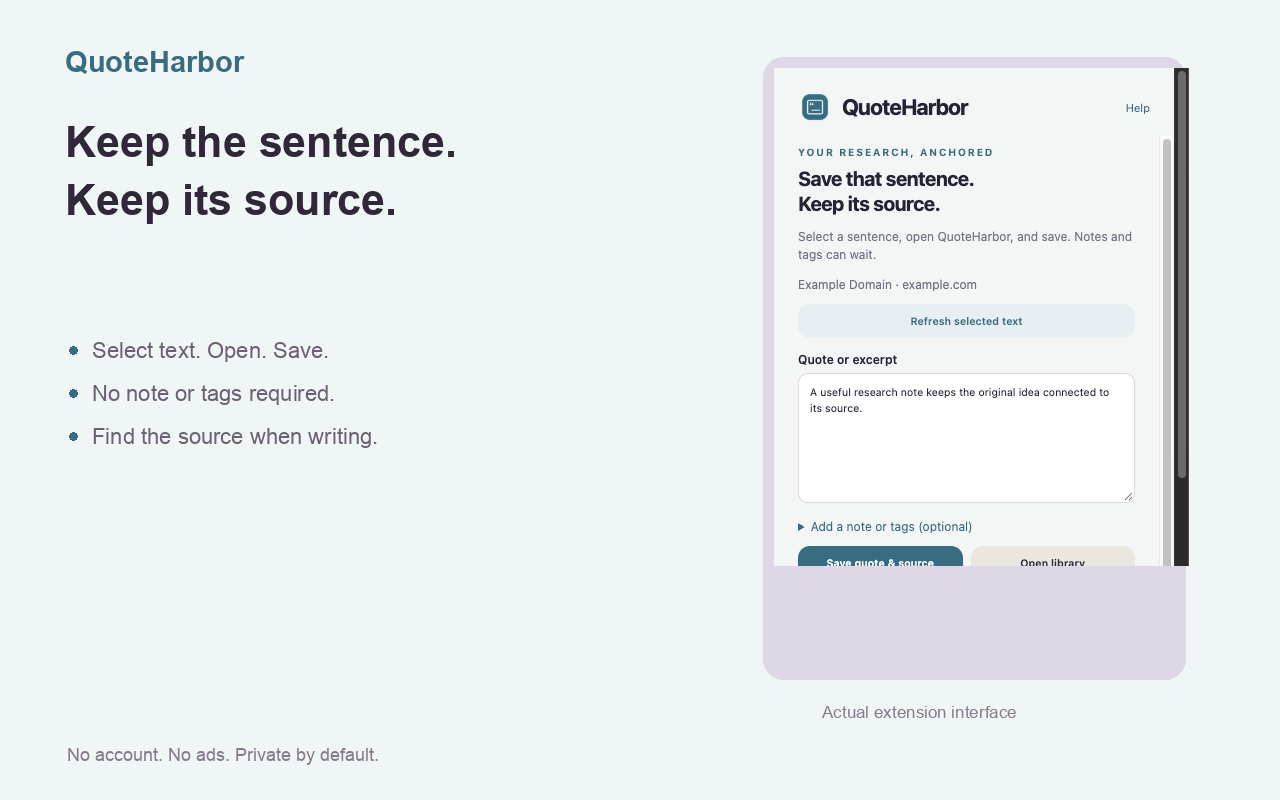
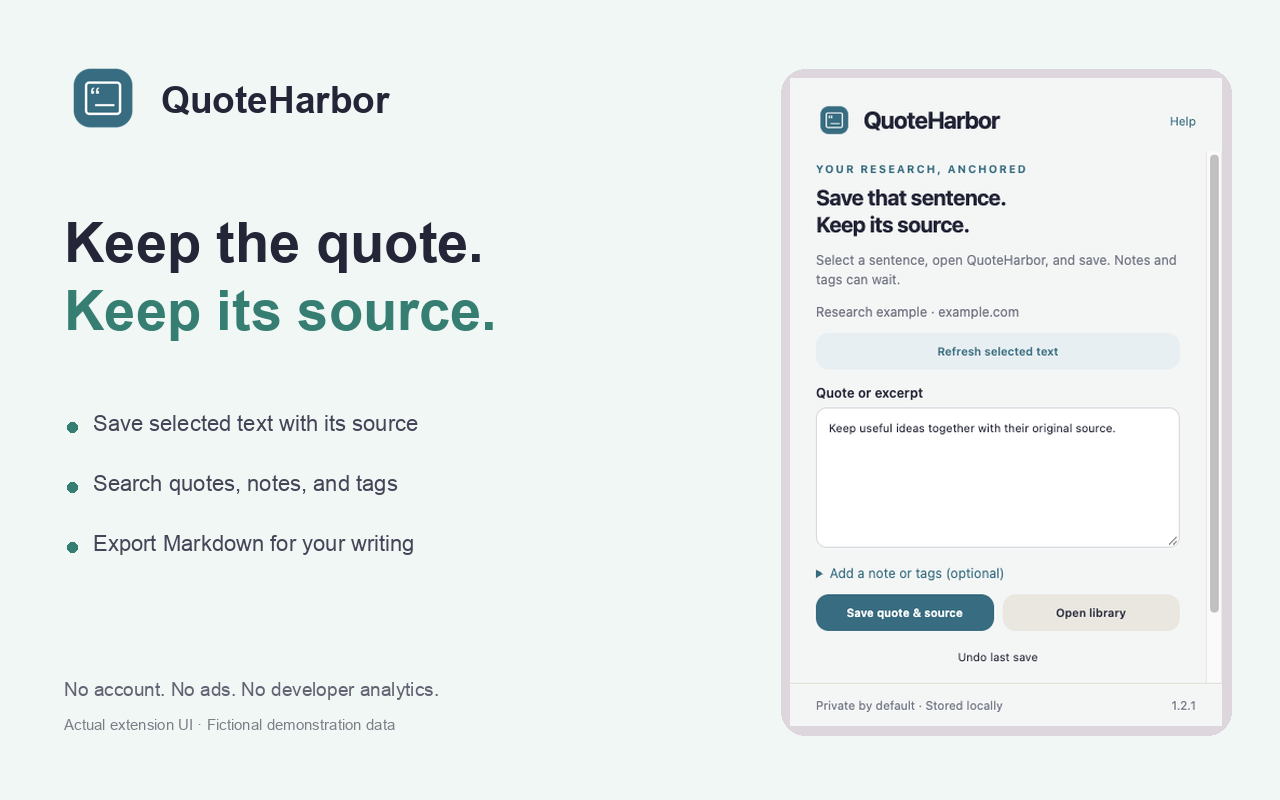
Improve store discovery and add optional honest feedback

diff --git a/extension/popup.js b/extension/popup.js
@@ -1,9 +1,11 @@
+import {initReview} from './review.js';
+const recordReviewUse=initReview('https://chromewebstore.google.com/detail/kaflppcnmmcejmdhcnicjhoaogagjgbd/reviews');
 import {$,status} from './shared.js';import {pageKey,normalizeTags} from './model.js';let page,tabId,lastSavedId=null;
 async function init(){try{const [tab]=await chrome.tabs.query({active:true,currentWindow:true});page={url:pageKey(tab?.url),title:String(tab.title||tab.url).slice(0,300)};tabId=tab.id;$('#page').textContent=page.title+' · '+new URL(page.url).hostname;await captureSelection(false);await updateCount();}catch{page=null;$('#page').textContent='Open a web page to capture a source. Your saved clips are in the library.';$('#capture').disabled=true;$('#save').disabled=true;}}
 async function captureSelection(explicit=true){if(!page)return;try{const result=await chrome.scripting.executeScript({target:{tabId},func:()=>window.getSelection()?.toString()||''});const text=result[0]?.result?.trim()||'';if(!text){if(explicit)status('Select a sentence on the page first, or paste one below.');return;}if(text.length>20000){status('Choose a passage shorter than 20,000 characters.');return;}$('#quote').value=text;$('#capture').textContent='Refresh selected text';status('Selection ready. Save it now; add notes later if you want.');}catch{if(explicit)status('This page blocks capture. Paste the sentence manually.');}}
 $('#capture').onclick=()=>captureSelection(true);
 async function updateCount(){const {clips=[]}=await chrome.storage.local.get('clips');$('#recent-count').textContent=clips.length?`${clips.length} saved ${clips.length===1?'clip':'clips'} in your library.`:'Your first useful sentence starts here.';}
-$('#save').onclick=async()=>{if(!page)return;const quote=$('#quote').value.trim(),note=$('#note').value.trim();if(!quote&&!note){status('Add a quote or a note before saving.');return;}$('#save').disabled=true;try{const {clips=[]}=await chrome.storage.local.get('clips');if(clips.length>=1000){status('Library is full. Export and remove older clips.');return;}lastSavedId=crypto.randomUUID();await chrome.storage.local.set({clips:[{id:lastSavedId,...page,quote,note,tags:normalizeTags($('#tags').value),createdAt:Date.now()},...clips]});$('#quote').value='';$('#note').value='';$('#undo').hidden=false;await updateCount();status('Saved with its source. No note or tags required.');}catch{status('Could not save. Storage may be full.');}finally{$('#save').disabled=false;}};
+$('#save').onclick=async()=>{if(!page)return;const quote=$('#quote').value.trim(),note=$('#note').value.trim();if(!quote&&!note){status('Add a quote or a note before saving.');return;}$('#save').disabled=true;try{const {clips=[]}=await chrome.storage.local.get('clips');if(clips.length>=1000){status('Library is full. Export and remove older clips.');return;}lastSavedId=crypto.randomUUID();await chrome.storage.local.set({clips:[{id:lastSavedId,...page,quote,note,tags:normalizeTags($('#tags').value),createdAt:Date.now()},...clips]});$('#quote').value='';$('#note').value='';$('#undo').hidden=false;await updateCount();status('Saved with its source. No note or tags required.');void recordReviewUse();}catch{status('Could not save. Storage may be full.');}finally{$('#save').disabled=false;}};
 $('#library').onclick=()=>chrome.tabs.create({url:chrome.runtime.getURL('library.html')});init();
 
 $('#undo').onclick=async()=>{if(!lastSavedId)return;try{const {clips=[]}=await chrome.storage.local.get('clips');await chrome.storage.local.set({clips:clips.filter(c=>c.id!==lastSavedId)});lastSavedId=null;$('#undo').hidden=true;await updateCount();status('Last save undone.');}catch{status('Could not undo. You can delete the clip from the library.');}};

diff --git a/extension/popup.html b/extension/popup.html
@@ -1,1 +1,1 @@
-<!doctype html><html lang="en"><head><meta charset="utf-8"><meta name="viewport" content="width=device-width,initial-scale=1"><title>QuoteHarbor</title><link rel="stylesheet" href="style.css"></head><body><header><div><img src="icons/icon48.png" alt=""><h1>QuoteHarbor</h1></div><a class="brand-link" href="privacy.html" target="_blank">Help</a></header><main><div class="eyebrow">YOUR RESEARCH, ANCHORED</div><h2>Save that sentence.<br>Keep its source.</h2><p class="muted">Select a sentence, open QuoteHarbor, and save. Notes and tags can wait.</p><div id="page" class="page-info">Reading the current page…</div><button id="capture" class="primary full" style="margin-top:10px">Capture selected text</button><label for="quote">Quote or excerpt</label><textarea id="quote" maxlength="20000" placeholder="Capture a selection or paste a quote…" style="min-height:90px"></textarea><details id="clip-details"><summary>Add a note or tags (optional)</summary><label for="note">Why it matters</label><textarea id="note" maxlength="20000" placeholder="Your interpretation, questions, or next step…" style="min-height:80px"></textarea><label for="tags">Tags (comma separated)</label><input id="tags" maxlength="160" placeholder="research, design, to-read"></details><div class="row" style="margin-top:12px"><button id="save" class="primary">Save quote & source</button><button id="library">Open library</button></div><button id="undo" class="quiet full" hidden>Undo last save</button><p id="recent-count" class="muted"></p><p id="status" class="status" role="status" aria-live="polite"></p></main><footer><span>Private by default · Stored locally</span><span>1.2.0</span></footer><script type="module" src="popup.js"></script></body></html>
+<!doctype html><html lang="en"><head><meta charset="utf-8"><meta name="viewport" content="width=device-width,initial-scale=1"><title>QuoteHarbor</title><link rel="stylesheet" href="style.css"></head><body><header><div><img src="icons/icon48.png" alt=""><h1>QuoteHarbor</h1></div><a class="brand-link" href="privacy.html" target="_blank">Help</a></header><main><div class="eyebrow">YOUR RESEARCH, ANCHORED</div><h2>Save that sentence.<br>Keep its source.</h2><p class="muted">Select a sentence, open QuoteHarbor, and save. Notes and tags can wait.</p><div id="page" class="page-info">Reading the current page…</div><button id="capture" class="primary full" style="margin-top:10px">Capture selected text</button><label for="quote">Quote or excerpt</label><textarea id="quote" maxlength="20000" placeholder="Capture a selection or paste a quote…" style="min-height:90px"></textarea><details id="clip-details"><summary>Add a note or tags (optional)</summary><label for="note">Why it matters</label><textarea id="note" maxlength="20000" placeholder="Your interpretation, questions, or next step…" style="min-height:80px"></textarea><label for="tags">Tags (comma separated)</label><input id="tags" maxlength="160" placeholder="research, design, to-read"></details><div class="row" style="margin-top:12px"><button id="save" class="primary">Save quote & source</button><button id="library">Open library</button></div><button id="undo" class="quiet full" hidden>Undo last save</button><p id="recent-count" class="muted"></p><p id="status" class="status" role="status" aria-live="polite"></p></main><footer><span>Private by default · Stored locally</span><span>1.2.1</span></footer><script type="module" src="popup.js"></script></body></html>

diff --git a/extension/privacy.html b/extension/privacy.html
@@ -1,1 +1,1 @@
-<!doctype html><html lang="en"><meta charset="utf-8"><meta name="viewport" content="width=device-width,initial-scale=1"><title>Privacy and help</title><link rel="stylesheet" href="style.css"><body class="library"><header><h1>Privacy and help</h1></header><main><h2>Stored on your device</h2><p>This extension does not send your data to a developer server. It contains no analytics, advertising, accounts, or remote executable code.</p><p>Saved content uses Chrome local storage. Clearing extension data or uninstalling removes it. Chrome and its Web Store operate under Google's separate policies.</p><h2>How this product accesses data</h2><p>Local data includes quotes, optional notes and tags, source titles and URLs, and timestamps. Opening the popup reads the current selection in the top page frame for a preview. The selection is saved only after you click Save.</p><h2>Control your data</h2><p>Use the export and delete controls where provided. Exported files may contain private URLs or notes, so store them somewhere you trust.</p><h2>Support</h2><p>Use the support contact on this extension's Chrome Web Store listing to report a bug. Include the extension version and steps to reproduce. Do not include passwords, private URLs, or sensitive notes.</p><h2>Remove the extension</h2><p>Open chrome://extensions, find this extension, and choose Remove.</p><a href="popup.html">Back to the app</a></main></body></html>
+<!doctype html><html lang="en"><meta charset="utf-8"><meta name="viewport" content="width=device-width,initial-scale=1"><title>Privacy and help</title><link rel="stylesheet" href="style.css"><body class="library"><header><h1>Privacy and help</h1></header><main><h2>Stored on your device</h2><p>This extension does not send your data to a developer server. It contains no analytics, advertising, accounts, or remote executable code.</p><p>Saved content uses Chrome local storage. Clearing extension data or uninstalling removes it. Chrome and its Web Store operate under Google's separate policies.</p><h2>How this product accesses data</h2><p>Local data includes quotes, optional notes and tags, source titles and URLs, and timestamps. Opening the popup reads the current selection in the top page frame for a preview. The selection is saved only after you click Save.</p><h2>Control your data</h2><p>Use the export and delete controls where provided. Exported files may contain private URLs or notes, so store them somewhere you trust.</p><h2>Support</h2><p>Use the support contact on this extension's Chrome Web Store listing to report a bug. Include the extension version and steps to reproduce. Do not include passwords, private URLs, or sensitive notes.</p><h2>Remove the extension</h2><p>Open chrome://extensions, find this extension, and choose Remove.</p><a href="popup.html">Back to the app</a><h2>Share feedback</h2><p>Share an honest review of your experience. Reviews are optional and do not unlock features.</p><p><a href="https://chromewebstore.google.com/detail/kaflppcnmmcejmdhcnicjhoaogagjgbd/reviews" target="_blank" rel="noopener noreferrer">Write a Chrome Web Store review</a></p><p>Local feedback preferences record successful-use counts, activity dates, and whether the one-time review notice was dismissed or opened. No feedback data is sent to the developer.</p></main></body></html>

diff --git a/extension/library.html b/extension/library.html
@@ -1,1 +1,1 @@
-<!doctype html><html lang="en"><head><meta charset="utf-8"><meta name="viewport" content="width=device-width,initial-scale=1"><title>QuoteHarbor — Research library</title><link rel="stylesheet" href="style.css"></head><body class="library"><header><div><img src="icons/icon48.png" alt=""><h1>QuoteHarbor</h1></div><a href="privacy.html">Privacy & help</a></header><main><div class="eyebrow">YOUR PRIVATE RESEARCH LIBRARY</div><h2>Good ideas deserve a safe harbor.</h2><p class="muted">Search quotes, notes, sources, and tags. Export Markdown for your writing or JSON for a backup.</p><div class="row"><div><label for="search">Search clips</label><input id="search" type="search" placeholder="Find a quote, note, or source"></div><div><label for="tag-filter">Tag</label><select id="tag-filter"><option value="">All tags</option></select></div></div><div class="actions"><button id="markdown" class="primary">Export Markdown</button><button id="export">Export backup</button><button id="import">Import backup</button></div><input id="file" type="file" accept=".json" hidden><p id="status" class="status" role="status" aria-live="polite"></p><div id="notes" class="cards"></div></main><footer><span>Stored on this device · No account</span><span>1.2.0</span></footer><script type="module" src="library.js"></script></body></html>
+<!doctype html><html lang="en"><head><meta charset="utf-8"><meta name="viewport" content="width=device-width,initial-scale=1"><title>QuoteHarbor — Research library</title><link rel="stylesheet" href="style.css"></head><body class="library"><header><div><img src="icons/icon48.png" alt=""><h1>QuoteHarbor</h1></div><a href="privacy.html">Privacy & help</a></header><main><div class="eyebrow">YOUR PRIVATE RESEARCH LIBRARY</div><h2>Good ideas deserve a safe harbor.</h2><p class="muted">Search quotes, notes, sources, and tags. Export Markdown for your writing or JSON for a backup.</p><div class="row"><div><label for="search">Search clips</label><input id="search" type="search" placeholder="Find a quote, note, or source"></div><div><label for="tag-filter">Tag</label><select id="tag-filter"><option value="">All tags</option></select></div></div><div class="actions"><button id="markdown" class="primary">Export Markdown</button><button id="export">Export backup</button><button id="import">Import backup</button></div><input id="file" type="file" accept=".json" hidden><p id="status" class="status" role="status" aria-live="polite"></p><div id="notes" class="cards"></div></main><footer><span>Stored on this device · No account</span><span>1.2.1</span></footer><script type="module" src="library.js"></script></body></html>

diff --git a/extension/review.js b/extension/review.js
@@ -1,0 +1,55 @@
+// Feedback preferences stay on this device; no analytics or network requests.
+const KEY = 'reviewPrompt';
+const DAY = 86400000;
+let queue = Promise.resolve();
+export function eligibleReview(state, now = Date.now()) {
+  return Boolean(state && !state.handled && state.count >= 5 &&
+    state.days?.length >= 3 && now - state.firstAt >= 7 * DAY);
+}
+export function initReview(url) {
+  let box;
+  const settle = async () => {
+    try {
+      const data = await chrome.storage.local.get(KEY);
+      await chrome.storage.local.set({[KEY]: {...data[KEY], handled: true}});
+    } catch { /* Feedback must never interrupt the app. */ }
+    box?.remove();
+  };
+  const refresh = async () => {
+    try {
+      const data = await chrome.storage.local.get(KEY);
+      if (!eligibleReview(data[KEY])) { box?.remove(); box = null; return; }
+      if (box?.isConnected) return;
+      box = document.createElement('aside');
+      box.className = 'review-card';
+      box.setAttribute('aria-label', 'Optional feedback');
+      const text = document.createElement('p');
+      text.textContent = 'Have a moment? Share an honest review on the Chrome Web Store.';
+      const link = document.createElement('a');
+      link.href = url; link.target = '_blank'; link.rel = 'noopener noreferrer';
+      link.textContent = 'Write a review'; link.addEventListener('click', settle);
+      const dismiss = document.createElement('button');
+      dismiss.type = 'button'; dismiss.className = 'quiet small';
+      dismiss.textContent = 'Dismiss'; dismiss.addEventListener('click', settle);
+      box.append(text, link, dismiss);
+      document.querySelector('main').append(box);
+    } catch { /* Feedback must never interrupt the app. */ }
+  };
+  void refresh();
+  chrome.storage.onChanged.addListener((changes, area) => {
+    if (area === 'local' && changes[KEY]) void refresh();
+  });
+  return recordReviewUse;
+}
+export function recordReviewUse() {
+    queue = queue.then(async () => {
+      const data = await chrome.storage.local.get(KEY);
+      const old = data[KEY] || {firstAt: Date.now(), count: 0, days: []};
+      if (old.handled) return;
+      const day = new Date().toISOString().slice(0, 10);
+      await chrome.storage.local.set({[KEY]: {...old,
+        count: Math.min(100, old.count + 1),
+        days: [...new Set([...(old.days || []), day])].slice(-30)}});
+    }).catch(() => {});
+    return queue;
+}

diff --git a/extension/style.css b/extension/style.css
@@ -6,3 +6,5 @@ body:not(.library){height:600px;display:flex;flex-direction:column}body:not(.lib
 :root{--accent:#386c80;background:#f3f6f5}.full{width:100%}.clip blockquote{margin:15px 0;padding:12px 16px;border-left:3px solid #8baab4;background:#f5f8f9;white-space:pre-wrap;font-family:Georgia,serif;font-size:16px;line-height:1.7}.clip-note{white-space:pre-wrap;font-size:13px}.source{display:block;margin-top:12px;font-size:12px}.editor textarea,.editor input,.editor button{margin-top:10px}.primary{background:var(--accent)}.library main{padding-bottom:40px}
 
 #clip-details{margin-top:14px}#clip-details>summary{font-size:12px;color:var(--accent);cursor:pointer}#quote{min-height:130px!important}#undo{margin-top:7px}#recent-count{font-size:11px}#capture{background:#e8eff2;color:var(--accent)}
+
+.review-card{margin-top:16px;padding:12px;border:1px solid #ddd;border-radius:12px;background:#fff;font-size:12px;line-height:1.5}.review-card p{margin:0 0 8px}.review-card a{margin-right:14px}.review-card button{font-size:11px}

diff --git a/tests/review.test.js b/tests/review.test.js
@@ -1,0 +1,6 @@
+import {test} from 'node:test';
+import assert from 'node:assert/strict';
+import {eligibleReview} from '../extension/review.js';
+const now=20*86400000;
+const ready={firstAt:0,count:5,days:['one','two','three']};
+test('review notice waits for repeated use across a week and respects dismissal',()=>{assert.equal(eligibleReview(ready,now),true);for(const state of [null,{...ready,count:4},{...ready,days:['one']},{...ready,firstAt:now-86400000},{...ready,handled:true}])assert.equal(eligibleReview(state,now),false);});

diff --git a/store/launch.md b/store/launch.md
@@ -1,0 +1,28 @@
+# QuoteHarbor launch material
+
+## Community post
+
+Title: Save the quote. Keep the source.
+
+I built QuoteHarbor, a Chrome extension for a simpler everyday browsing workflow.
+
+QuoteHarbor saves selected text from web pages together with its source title and link. Keep useful quotes for research, reading, or writing, then find them in a searchable local library.
+
+What it does:
+- Preview and save selected web text
+- Search quotes, notes, and tags
+- Export Markdown or JSON backups
+
+Install: https://chromewebstore.google.com/detail/kaflppcnmmcejmdhcnicjhoaogagjgbd
+
+I am the developer. I would appreciate feedback on the workflow, confusing steps, or missing essentials. Please share your own experience; there is no reward or required rating.
+
+## Demo caption
+
+Save the quote. Keep the source. QuoteHarbor saves selected text from web pages together with its source title and link. Keep useful quotes for research, reading, or writing, then find them in a searchable local library.
+
+Install: https://chromewebstore.google.com/detail/kaflppcnmmcejmdhcnicjhoaogagjgbd
+
+## Distribution
+
+Share in relevant communities only where their rules permit developer posts. Use the guided demo in `store/demo/`, with its fictional-data and accelerated-timer disclosures where applicable. These posts are prepared drafts; they have not been posted.

diff --git a/store/submission.md b/store/submission.md
@@ -1,9 +1,3 @@
 # Store release status
 
-Checked 2026-10-16. The existing item remains **1.1.0 — Pending review**. Version **1.2.0 has not been uploaded or submitted**.
-
-The publisher dashboard explicitly rejected cancellation of the previous review with: “Cannot cancel because you’ve reached the daily limit.” Upload new package remains disabled while the existing submission is pending. The dashboard did not provide a reset time.
-
-The 1.2.0 implementation, listing, media, reviewer instructions and validated ZIP are available in this repository and its GitHub release. To finish the update after cancellation becomes available: cancel the existing review, upload the 1.2.0 ZIP, replace the listing/media and permission explanations with the prepared files, and submit for review with automatic publication after approval. Verify the stored version and images before reporting completion.
-
-Existing store metadata describes 1.1.0 until replacement succeeds. Prepared assets are not published store content. No duplicate store item was created.
+Updated 2026-10-21. Version 1.2.1 has been prepared and uploaded to the existing item. The earlier 1.2.0 update was superseded. Current submission evidence is recorded in `submission-2026-10-21.json`; public availability depends on Google’s review.

diff --git a/store/asset-notes.md b/store/asset-notes.md
@@ -1,5 +1,5 @@
-# Store assets
+# Store artwork provenance
 
-Promotional artwork uses the extension's original vector and geometric mascot system. Overview images combine promotional typography with an actual isolated-browser UI capture. Capture content uses fictional example domains and local data. No user account information is included.
+Overview and marquee images combine explanatory typography with an actual isolated-browser UI capture using fictional example data. The capture comes from `store/popup-400x600.png`, generated from version 1.2.1 in a disposable browser profile. Promotional tiles use the existing mascot and geometric icon system. No personal account or workstation information is included.
 
-Required assets: RGB PNG overview at 1280×800 and small promotional tile at 440×280. Optional marquee: RGB PNG at 1400×560. Icons use RGBA PNG at 16, 32, 48, and 128 pixels.
+All uploaded artwork is RGB PNG at the requested store dimensions. Guided demo frames and completion acceleration disclosures remain in `store/demo/README.md`.

diff --git a/PRIVACY.md b/PRIVACY.md
@@ -1,6 +1,6 @@
 # QuoteHarbor privacy policy
 
-Effective date: 2026-10-16.
+Effective date: 2026-10-21.
 
 ## Data and access
 
@@ -9,6 +9,10 @@ Local data includes quotes, optional notes and tags, source titles and URLs, and
 `activeTab` temporarily accesses the current page after you invoke the extension. `scripting` reads selected text when the popup opens or when you click Refresh selected text. `storage` saves the library on this device. No background scanning occurs.
 
 Processing is local. The developer receives no extension data. No accounts, cloud sync, ads, analytics or remote executable code. Google and Chrome have separate privacy policies.
+
+## Optional feedback
+
+Successful-use counts, activity dates, and a dismissal/opened preference are stored locally for an optional one-time review notice after at least five uses on three days spanning one week. No feedback telemetry is transmitted. The help page always links to the store review page, regardless of usage or satisfaction.
 
 ## Control and retention
 

diff --git a/store/listing.md b/store/listing.md
@@ -1,18 +1,18 @@
 # QuoteHarbor
 
-## Category
+## Store fields
 
-Workflow & Planning
-
-## Language
-
-English
+- Title: QuoteHarbor: Save Quotes & Sources
+- Summary: Save selected web quotes with source links. Search your local library, add notes and tags, and export Markdown.
+- Category: Workflow & Planning
+- Language: English
 
 ## Description
 
-Keep the sentence. Keep its source.
+QuoteHarbor saves selected text from web pages together with its source title and link. Keep useful quotes for research, reading, or writing, then find them in a searchable local library.
 
-Select a useful sentence, open QuoteHarbor, and save. The selection is previewed and its source is attached automatically. Notes and tags are optional; find the quote later in your local library.
+GET STARTED
+Select a passage on a web page and open QuoteHarbor. Check the preview and click Save. Open the library to search or export your clips.
 
 FEATURES
 - Preview the selected passage when you open the extension.
